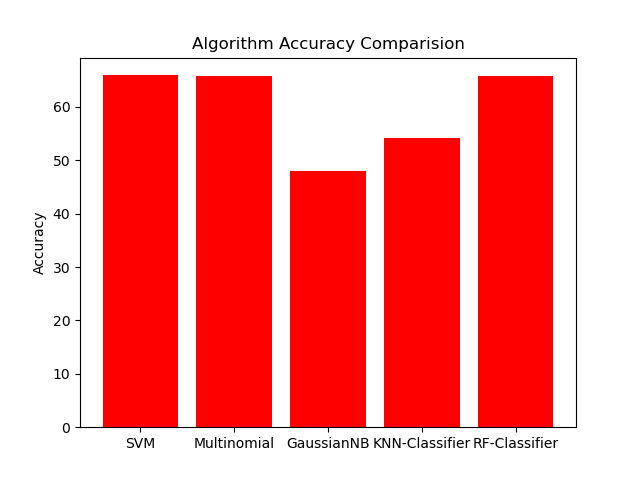
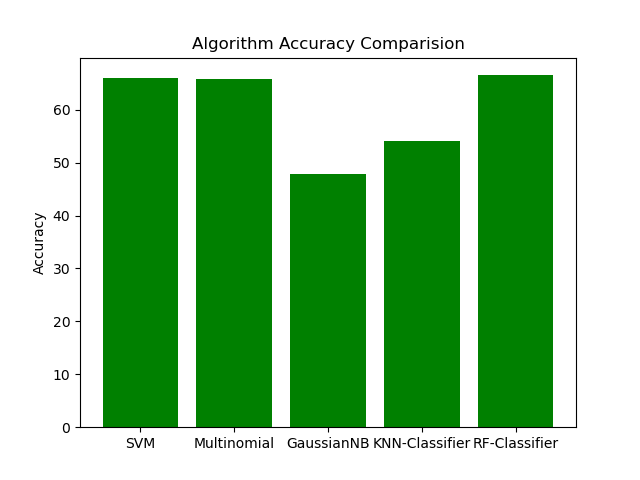
Executed with line plot width defined

diff --git a/sk_learn_algos.py b/sk_learn_algos.py
@@ -83,10 +83,10 @@ def Display(model, name):
     }
 
 
-def Plot(performance_arg, label):
+def Plot(performance_arg, label,color):
     objects = ('SVM', 'Multinomial', 'GaussianNB','KNN-Classifier','RF-Classifier')
     y_pos = np.arange(len(objects))
-    plt.bar(y_pos, performance_arg, align='center', alpha=1, color='r')
+    plt.bar(y_pos, performance_arg, align='center', alpha=1, color=color)
     plt.xticks(y_pos, objects)
     plt.ylabel(label)
     plt.title('Algorithm '+label+' Comparision')
@@ -120,40 +120,41 @@ for models in model_names:
     recall_plot.append(round(attributes[models]['recall'] * 100, 2))
     f1_plot.append(round(attributes[models]['f1score'] * 100, 2))
     precision_plot.append(round(attributes[models]['precision'] * 100, 2))
-    train_time_plot.append(round(attributes[models]['train_time']*100,3))
-    test_time_plot.append(round(attributes[models]['test_time']*100,3))
+    train_time_plot.append(round(attributes[models]['train_time']*10,3))
+    test_time_plot.append(round(attributes[models]['test_time']*10,3))
 
 
 
-Plot(accuracy_plot, label="Accuracy")
-Plot(recall_plot, label="Recall")
-Plot(f1_plot, label="F1-Score")
-Plot(precision_plot, label="Precision")
-Plot(train_time_plot, label="Train-Time")
-Plot(test_time_plot, label="Test-Time")
+Plot(accuracy_plot, label="Accuracy", color='green')
+Plot(recall_plot, label="Recall", color='orange')
+Plot(f1_plot, label="F1-Score", color='blue')
+Plot(precision_plot, label="Precision", color='red')
+Plot(train_time_plot, label="Train-Time", color='cyan')
+Plot(test_time_plot, label="Test-Time", color='brown')
 
 
 #Line Plot Of All Algorithms Combined
 ranges=[0,50,100,150,200]
+plt.figure(figsize=(10,7.5))
 plt.xlabel('Algorithms')
 plt.ylabel('Value')
-plt.xticks(ranges,['SVM','Multinomial','GaussianNB','KNN-Classifier','RF-Classifier'])
+plt.xticks(ranges,labels=['SVM','Multinomial','GaussianNB','KNN-Classifier','RF-Classifier'])
 
 plt.scatter(ranges, accuracy_plot, color='g',label="Accuracy")
 plt.scatter(ranges, recall_plot, color='orange',label="Recall")
 plt.scatter(ranges, f1_plot, color='blue',label="f1_score")
 plt.scatter(ranges, precision_plot, color='red',label="Precision")
-# plt.scatter(ranges, train_time_plot, color='cyan',label="Train")
-# plt.scatter(ranges, test_time_plot, color='black',label="Test")
+plt.scatter(ranges, train_time_plot, color='cyan',label="Train")
+plt.scatter(ranges, test_time_plot, color='brown',label="Test")
 
-plt.legend()
+plt.legend(loc=0)
 plt.title('Line plot')
 
 plt.plot(ranges, accuracy_plot, color='g',label="Accuracy")
 plt.plot(ranges, recall_plot, color='orange',label="Recall")
 plt.plot(ranges, f1_plot, color='blue',label="f1_score")
 plt.plot(ranges, precision_plot, color='red',label="Precision")
-# plt.plot(ranges, train_time_plot, color='cyan',label="Train")
-# plt.plot(ranges, test_time_plot, color='black',label="Test")
+plt.plot(ranges, train_time_plot, color='cyan',label="Train")
+plt.plot(ranges, test_time_plot, color='brown',label="Test")
 
 plt.savefig("outputs/graphs/line-plot.png")
